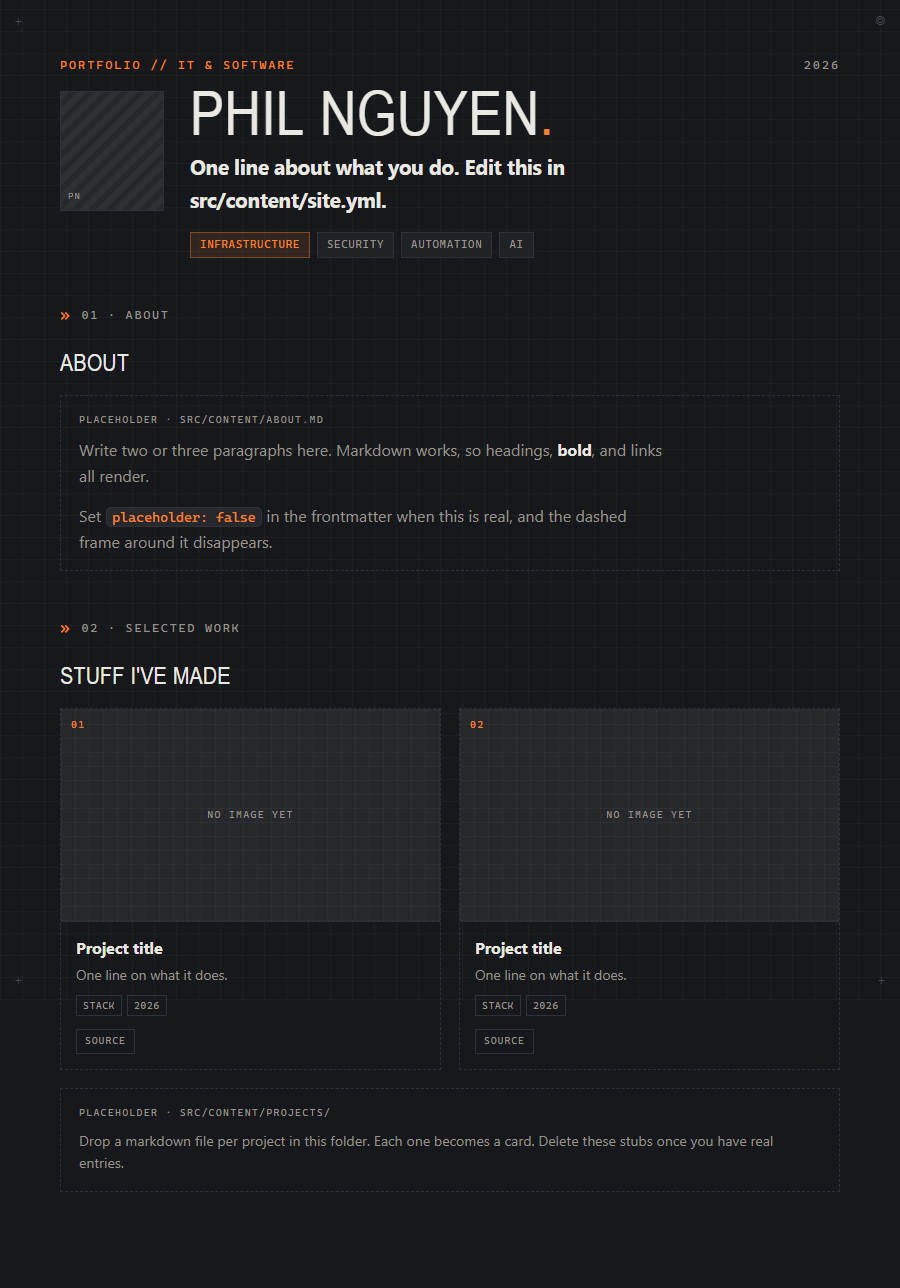
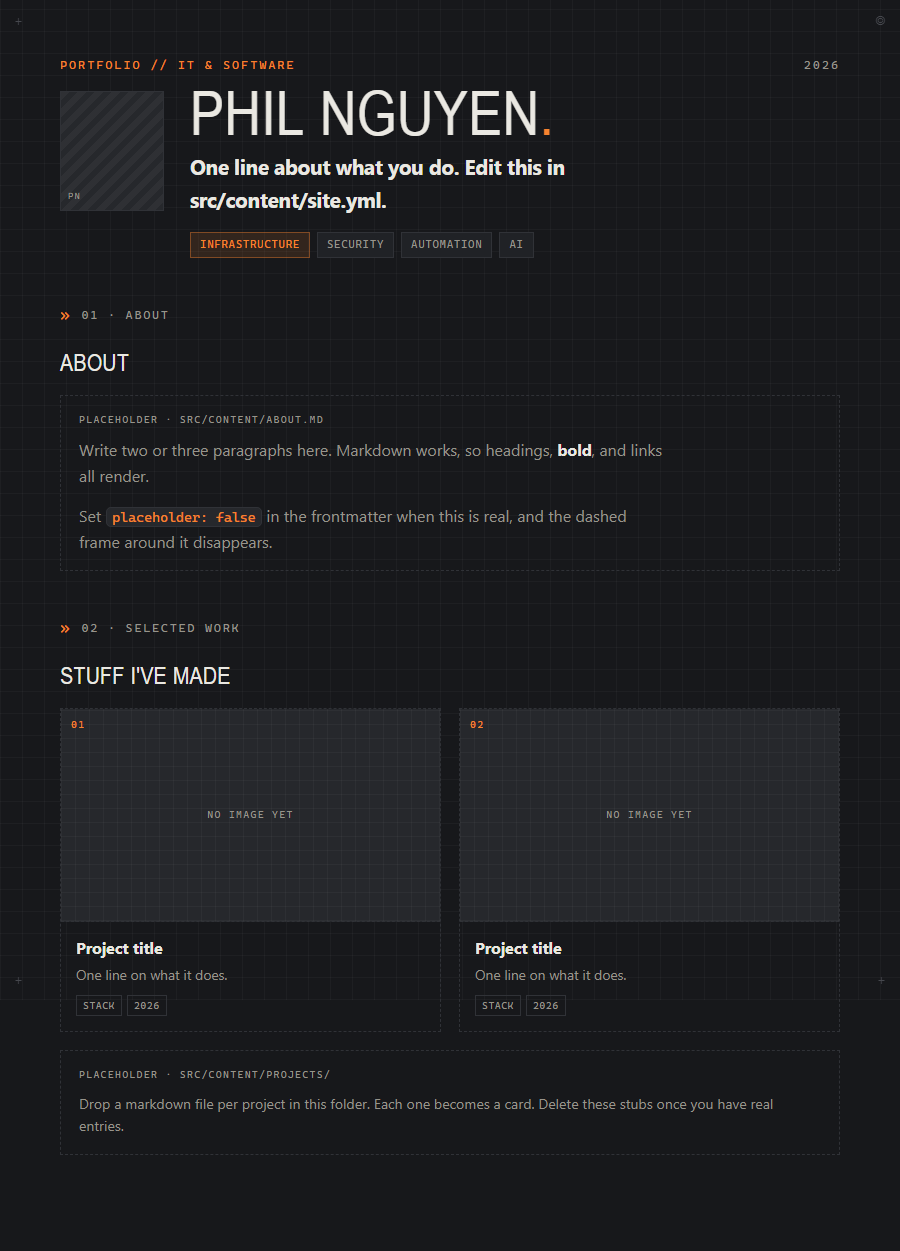
Move the build's carry-forward findings into the spec
The SDD workspace is scratch and gets deleted; the plan burns down. Three
things in them are worth keeping and belong in the living document: the
inputs the Terraform plan needs, the limits of the accessibility gate, and
the findings deliberately left unfixed with their rulings.

The gate's limits matter most. A passing axe run means the rendered
states are clean, not that the stylesheet is, and two real AA failures
hid behind that distinction during this build.

Previews regenerated against the fixed build, since the earlier pair
still showed the placeholder Source links.

diff --git a/docs/specs/0001-developer-site.md b/docs/specs/0001-developer-site.md
@@ -352,6 +352,61 @@ Recorded so the current design does not fight them. None are in scope.
 - A scheduled link checker once project entries carry external URLs worth
   rotting.
 
+## Carried into the Terraform plan
+
+Found while building the site. Each one is an input to the infrastructure work,
+not a site defect.
+
+- **Two assets are not content-hashed.** `favicon.svg` and `fonts/anton.woff2`
+  keep stable filenames, and the deploy's first sync pass gives everything except
+  `*.html` a year-long `immutable` header. Rename either file when its contents
+  change, or exclude the two from that pass. `tokens.css` carries this warning
+  for the font; the favicon has none.
+- **Pin `build.inlineStylesheets`.** Astro's `'auto'` inlines stylesheets under
+  roughly 4 kB, and this build's output actually crossed that threshold partway
+  through and flipped from an inline `<style>` to an external hashed file. The
+  CSP in the response headers policy depends on which one ships, so the value
+  should be pinned rather than left to the size of the stylesheet.
+- **The deploy workflow needs `npx playwright install chromium`.** `npm ci` does
+  not download browsers, so `npm run test:a11y` fails in CI without it.
+- **`astro.config.mjs`'s `site` value** is `https://example.com` until the domain
+  is registered.
+
+## Known limits of the accessibility gate
+
+Recorded because a passing suite is easy to over-trust.
+
+`npm run test:a11y` renders only the states the seed content produces. It cannot
+see a rule that no content reaches. Two real AA failures hid behind exactly that
+and were found by reading rather than by the gate: the `:focus-visible` outline
+against a populated card's panel, invisible because every seed card is a
+transparent placeholder, and the `rec` and `warn` badge kinds, which the schema
+allowed but nothing requested. The first was fixed, the second removed from the
+schema.
+
+The zero-JavaScript test checks response URLs against `/\.m?js(\?|$)/`, counts
+`<script>` elements, and collects `on*` attribute names. It does not cover
+`javascript:` URIs, which the content schema now makes unrepresentable instead,
+or shadow-DOM content, which is unreachable without JavaScript on the page.
+
+## Deferred, with rulings
+
+Real, understood, and deliberately not fixed.
+
+- `favicon.svg` hardcodes its colors and does not follow `prefers-color-scheme`.
+  An embedded `<style>` with a media query inside the SVG would work; `var()`
+  would not, since an icon-linked SVG sits outside the page cascade.
+- `<Image>` is fixed at 640x360 and Astro 7 refuses to upscale, so a first real
+  thumbnail smaller than that fails the build. Loud failure, no code exercises it
+  yet.
+- `alt=""` treats project screenshots as decorative. The adjacent heading names
+  the project and the blurb describes it. Revisit if a thumbnail ever carries
+  information the card text does not.
+- Nothing enforces unique `order`. Duplicates fall back to glob order silently,
+  which is the likely result of copying a project file without renumbering.
+- There is no `README`. The npm scripts and the Node floor live in the plan
+  document, which is meant to be archived.
+
 ## Open questions
 
 None blocking. The domain name is chosen at registration time and threaded
